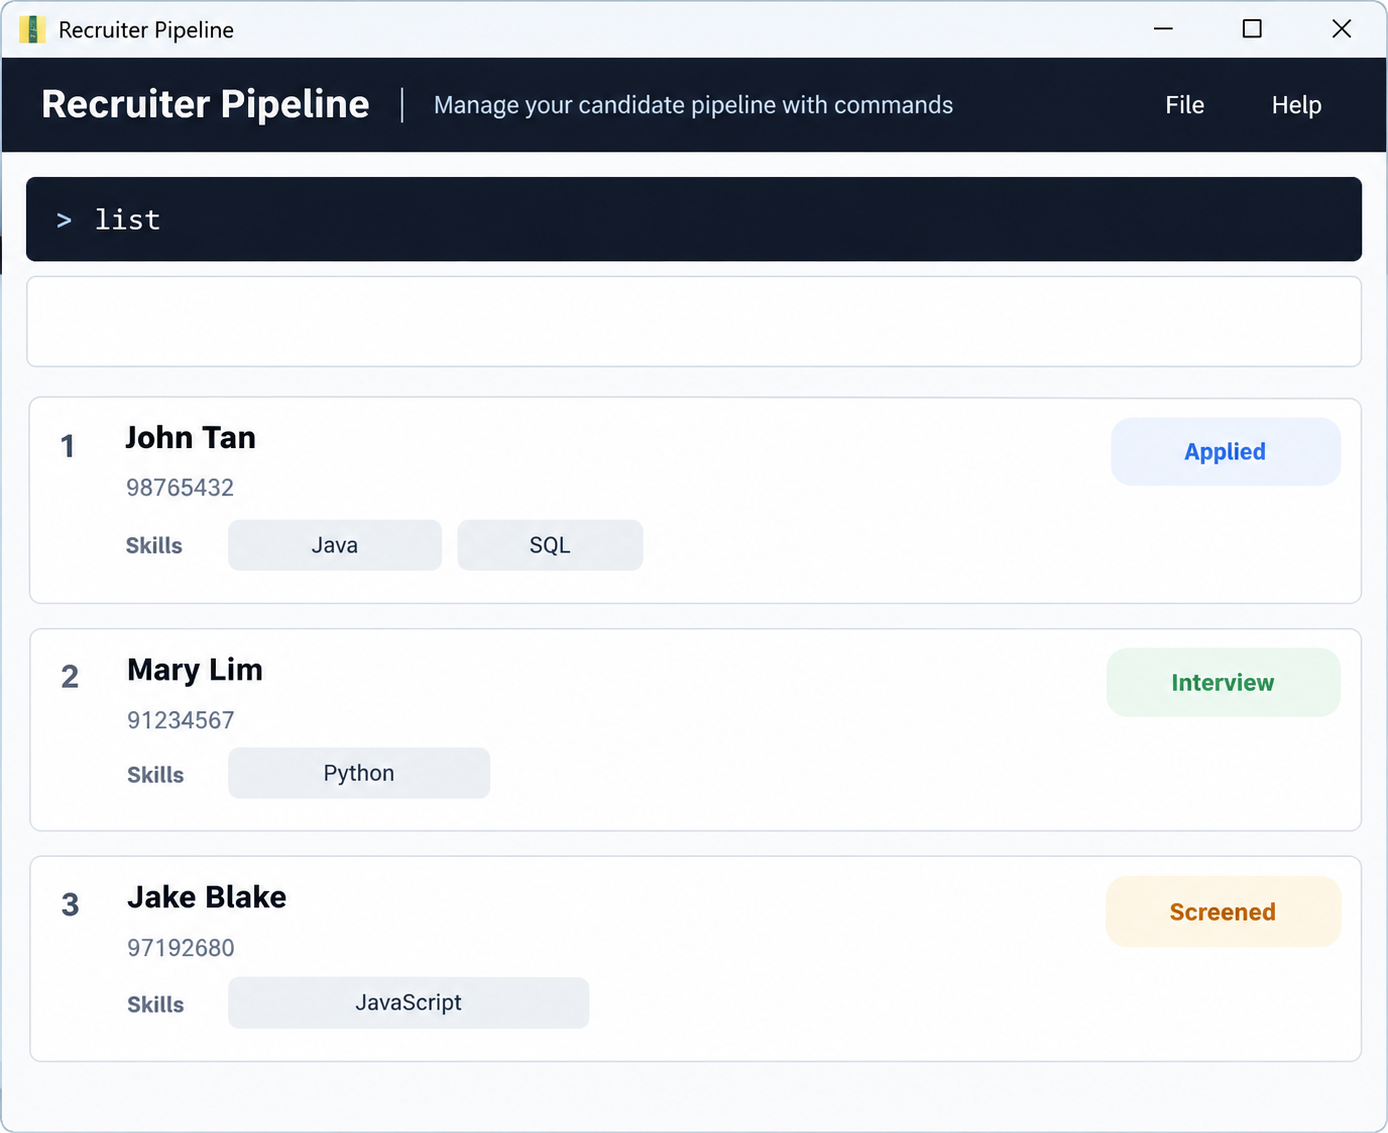
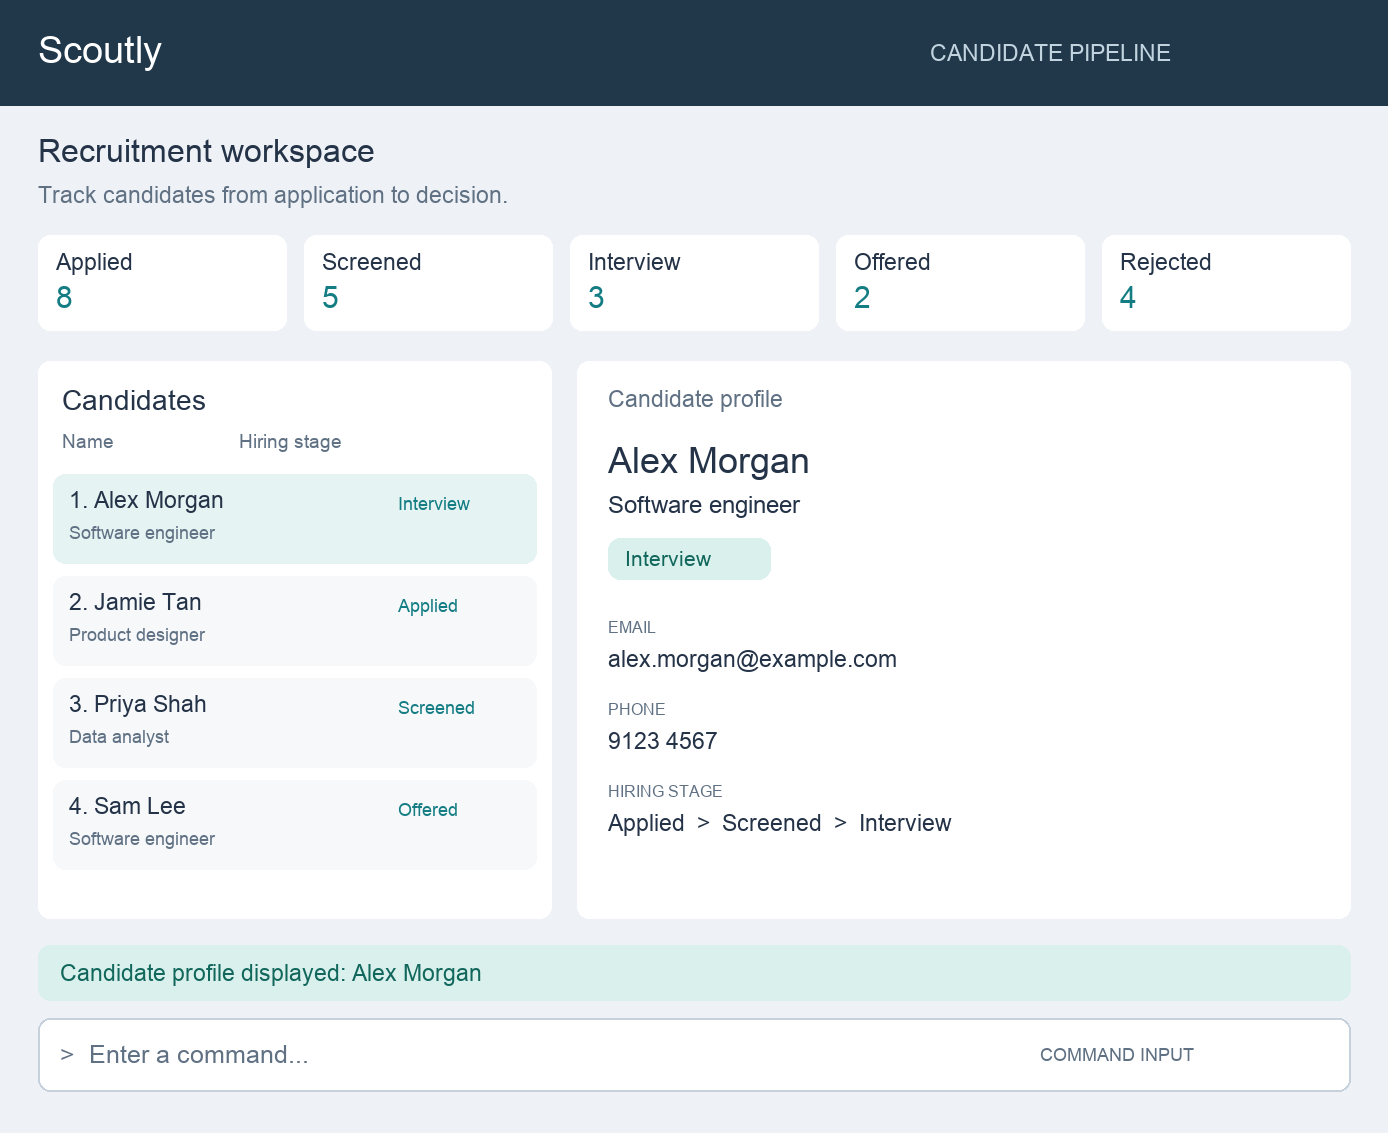
Update Scoutly README, UI mockup, and site branding

diff --git a/docs/index.md b/docs/index.md
@@ -1,21 +1,34 @@
 ---
   layout: default.md
-  title: ""
+  title: "Home"
 ---
 
-# AddressBook Level-3
+# Scoutly
 
-[![CI Status](https://github.com/se-edu/addressbook-level3/workflows/Java%20CI/badge.svg)](https://github.com/se-edu/addressbook-level3/actions)
-[![codecov](https://codecov.io/gh/se-edu/addressbook-level3/branch/master/graph/badge.svg)](https://codecov.io/gh/se-edu/addressbook-level3)
+[![CI Status](https://github.com/AY2627S1-CS2103T-T09-3/tp/actions/workflows/gradle.yml/badge.svg)](https://github.com/AY2627S1-CS2103T-T09-3/tp/actions/workflows/gradle.yml)
 
-![Ui](images/Ui.png)
+Scoutly is a desktop candidate pipeline and recruitment management application for recruiters who prefer typing commands. It combines a command line with a graphical interface to help recruiters manage candidate details and track progress through the hiring process.
 
-**AddressBook is a desktop application for managing your contact details.** While it has a GUI, most of the user interactions happen using a CLI (Command Line Interface).
+![Planned Scoutly interface showing a candidate list, hiring stages, and candidate profile](images/Ui.png)
 
-* If you are interested in using AddressBook, head over to the [_Quick Start_ section of the **User Guide**](UserGuide.html#quick-start).
-* If you are interested in developing AddressBook, the [**Developer Guide**](DeveloperGuide.html) is a good place to start.
+*UI mockup of the intended product. Features and layout are under development.*
 
+## Planned MVP
 
-**Acknowledgements**
+- Add, list, and delete candidates.
+- View a candidate’s profile.
+- Update a candidate’s hiring stage: Applied, Screened, Interview, Offered, or Rejected.
+- Receive clear feedback for successful commands and invalid input.
 
-* Libraries used: [JavaFX](https://openjfx.io/), [Jackson](https://github.com/FasterXML/jackson), [JUnit5](https://github.com/junit-team/junit5)
+## Documentation
+
+- [Project website](https://ay2627s1-cs2103t-t09-3.github.io/tp/)
+- [User Guide](https://ay2627s1-cs2103t-t09-3.github.io/tp/UserGuide.html)
+- [Developer Guide](https://ay2627s1-cs2103t-t09-3.github.io/tp/DeveloperGuide.html)
+- [About Us](https://ay2627s1-cs2103t-t09-3.github.io/tp/AboutUs.html)
+
+## Acknowledgements
+
+This project is based on the AddressBook-Level3 project created by the [SE-EDU initiative](https://se-education.org).
+
+Libraries used: [JavaFX](https://openjfx.io/), [Jackson](https://github.com/FasterXML/jackson), and [JUnit5](https://github.com/junit-team/junit5).

diff --git a/README.md b/README.md
@@ -1,20 +1,27 @@
-# Candidate pipeline application
+# Scoutly
 
 [![CI Status](https://github.com/AY2627S1-CS2103T-T09-3/tp/actions/workflows/gradle.yml/badge.svg)](https://github.com/AY2627S1-CS2103T-T09-3/tp/actions/workflows/gradle.yml)
 
-![Ui](docs/images/Ui.png)
+Scoutly is a desktop candidate pipeline and recruitment management application for recruiters who prefer typing commands. It combines a command line with a graphical interface to help recruiters manage candidate details and track progress through the hiring process.
 
-This is a desktop candidate pipeline and recruitment management application for recruiters. It supports command-based interaction through a graphical user interface (GUI), helping recruiters manage candidates throughout the hiring process.
+![Planned Scoutly interface showing a candidate list, hiring stages, and candidate profile](docs/images/Ui.png)
 
-## MVP capabilities
+*UI mockup of the intended product. Features and layout are under development.*
 
-- Add Candidate
-- List Candidates
-- View Candidate Profile
-- Update Stage
-- Delete Candidate
-- Clear and specific error handling
+## Planned MVP
 
-The supported hiring stages are Applied, Screened, Interview, Offered, and Rejected.
+- Add, list, and delete candidates.
+- View a candidate’s profile.
+- Update a candidate’s hiring stage: Applied, Screened, Interview, Offered, or Rejected.
+- Receive clear feedback for successful commands and invalid input.
+
+## Documentation
+
+- [Project website](https://ay2627s1-cs2103t-t09-3.github.io/tp/)
+- [User Guide](https://ay2627s1-cs2103t-t09-3.github.io/tp/UserGuide.html)
+- [Developer Guide](https://ay2627s1-cs2103t-t09-3.github.io/tp/DeveloperGuide.html)
+- [About Us](https://ay2627s1-cs2103t-t09-3.github.io/tp/AboutUs.html)
+
+## Acknowledgements
 
 This project is based on the AddressBook-Level3 project created by the [SE-EDU initiative](https://se-education.org).

diff --git a/docs/_markbind/layouts/default.md b/docs/_markbind/layouts/default.md
@@ -9,7 +9,7 @@
     <li><a href="{{baseUrl}}/UserGuide.html" class="nav-link">User Guide</a></li>
     <li><a href="{{baseUrl}}/DeveloperGuide.html" class="nav-link">Developer Guide</a></li>
     <li><a href="{{baseUrl}}/AboutUs.html" class="nav-link">About Us</a></li>
-    <li><a href="https://github.com/se-edu/addressbook-level3" target="_blank" class="nav-link"><md>:fab-github:</md></a>
+    <li><a href="https://github.com/AY2627S1-CS2103T-T09-3/tp" target="_blank" class="nav-link"><md>:fab-github:</md></a>
     </li>
     <li slot="right">
       <form class="navbar-form">
